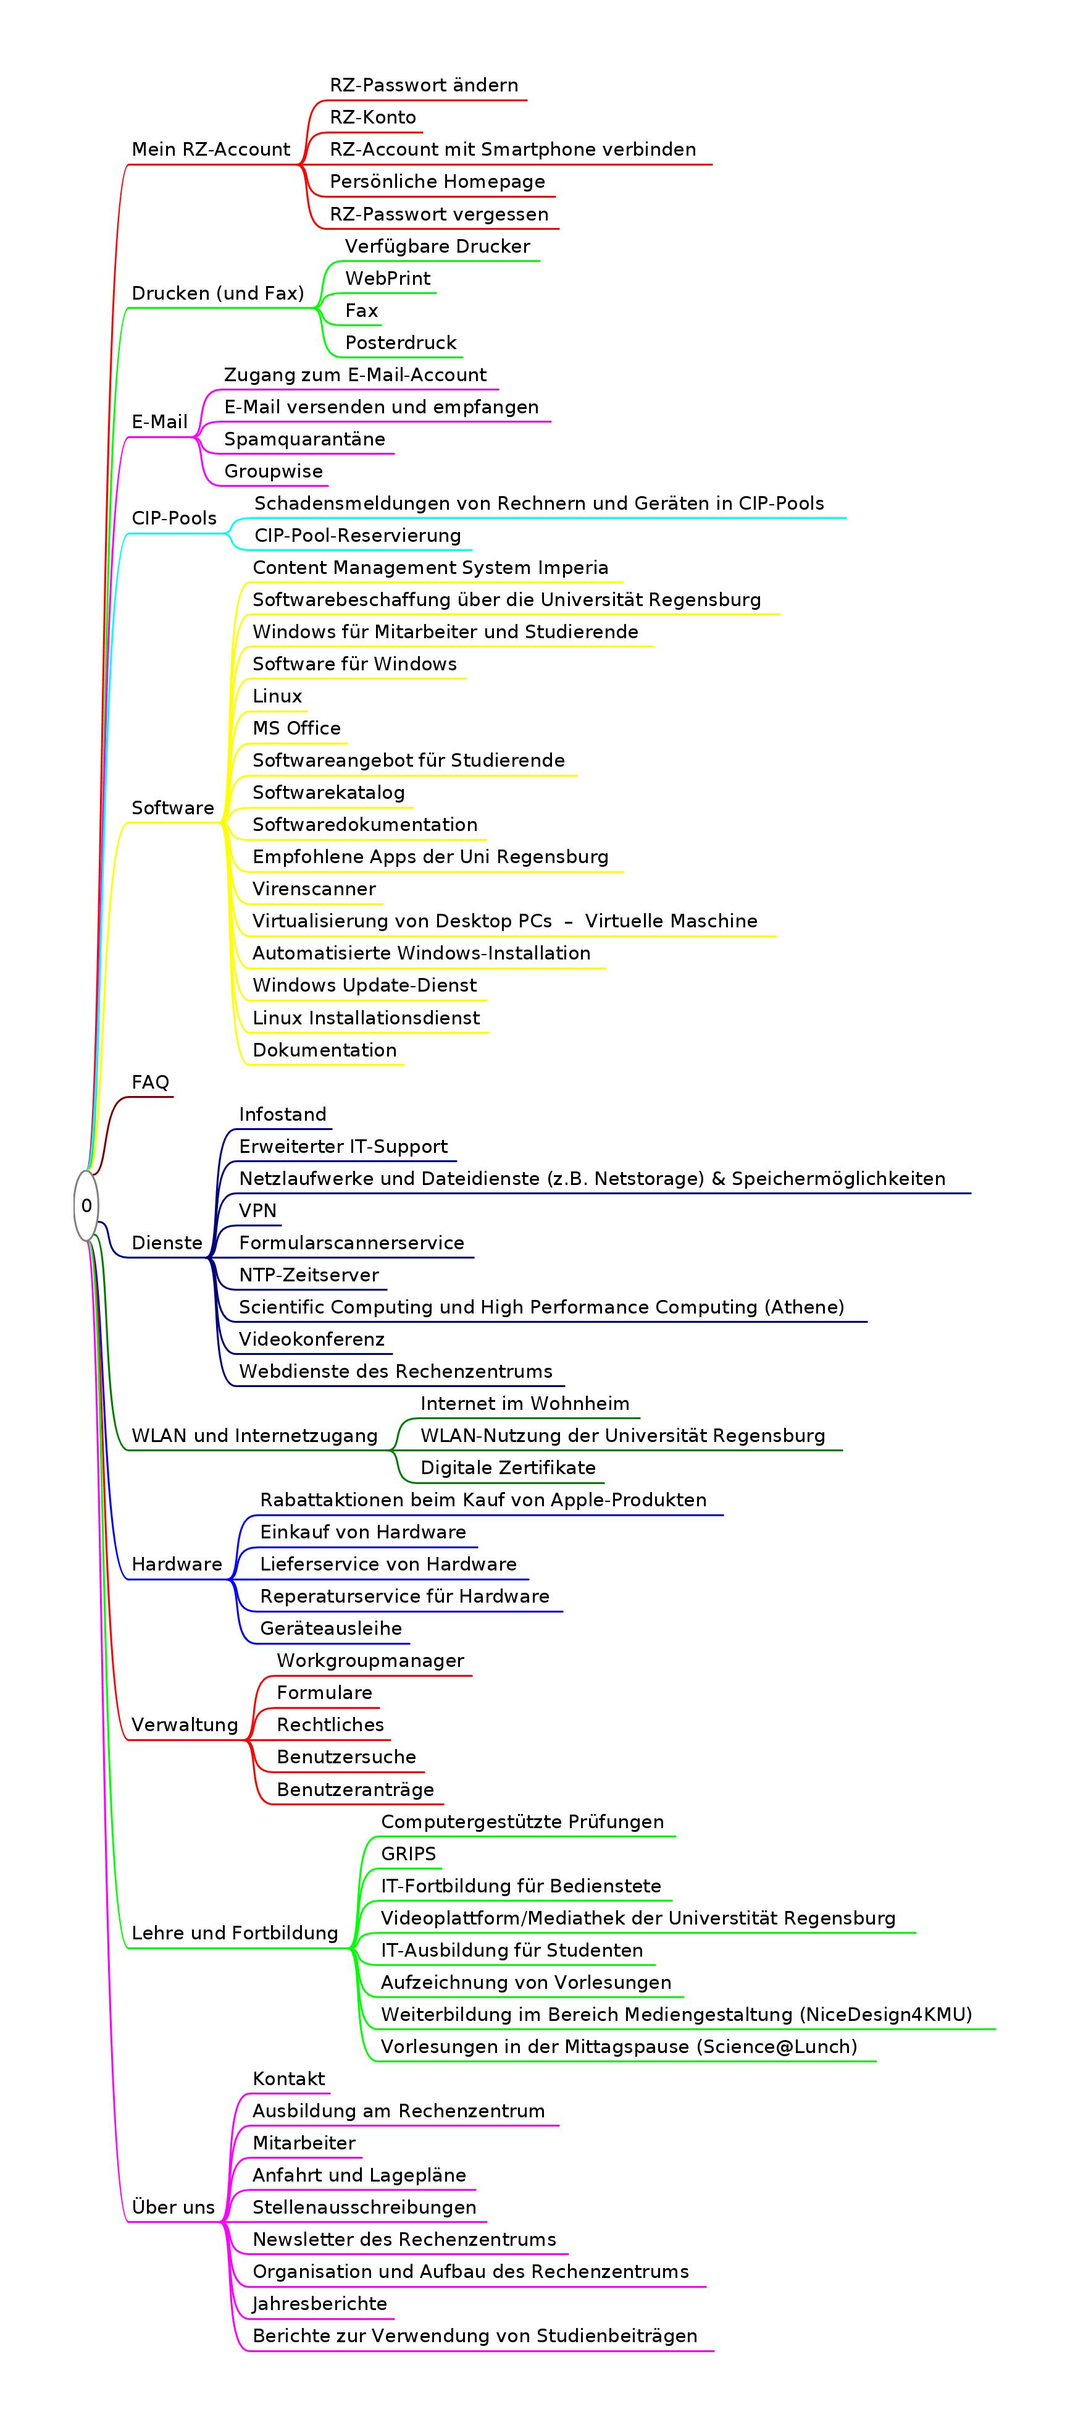
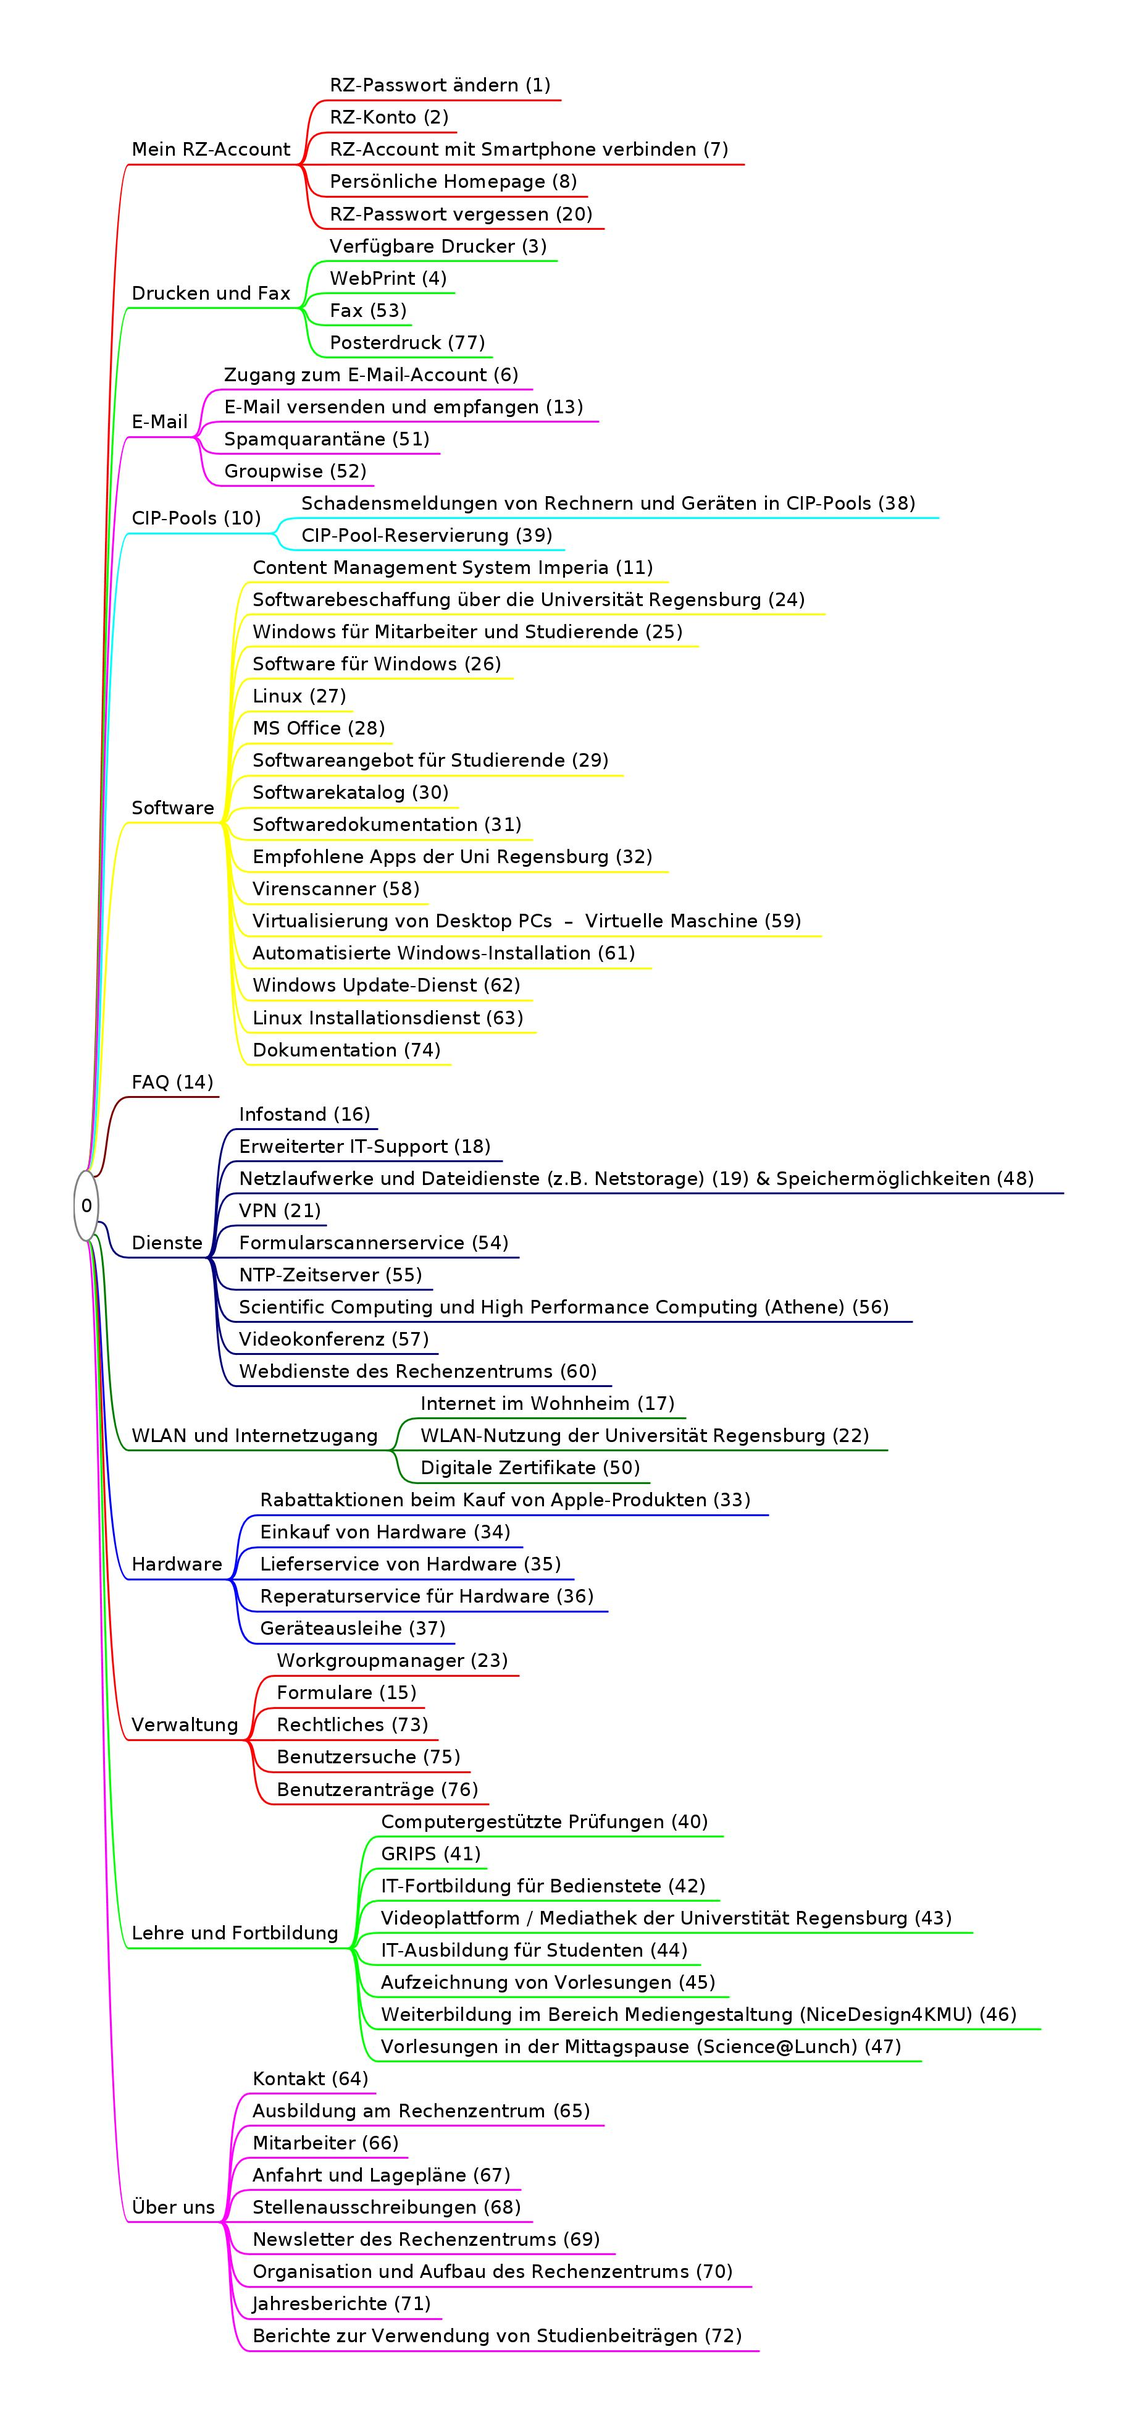
added ids to mind map

diff --git a/Card Sorting/Ergebnisse/neue struktur.mm b/Card Sorting/Ergebnisse/neue struktur.mm
@@ -53,109 +53,109 @@
 <hook NAME="AutomaticEdgeColor" COUNTER="4"/>
 <node TEXT="Mein RZ-Account" POSITION="right" ID="ID_669248540" CREATED="1441869848084" MODIFIED="1441869857971">
 <edge COLOR="#ff0000"/>
-<node TEXT="RZ-Passwort &#xe4;ndern" ID="ID_751792019" CREATED="1441869971630" MODIFIED="1441869979857"/>
-<node TEXT="RZ-Konto" ID="ID_1940107942" CREATED="1441869983337" MODIFIED="1441869985622"/>
-<node TEXT="RZ-Account mit Smartphone verbinden" ID="ID_1041095115" CREATED="1441869988999" MODIFIED="1441872777933"/>
-<node TEXT="Pers&#xf6;nliche Homepage" ID="ID_468570011" CREATED="1441870000966" MODIFIED="1441870004109"/>
-<node TEXT="RZ-Passwort vergessen" ID="ID_576465163" CREATED="1441870019242" MODIFIED="1441870031311"/>
+<node TEXT="RZ-Passwort &#xe4;ndern (1)" ID="ID_751792019" CREATED="1441869971630" MODIFIED="1441884568057"/>
+<node TEXT="RZ-Konto (2)" ID="ID_1940107942" CREATED="1441869983337" MODIFIED="1441884571773"/>
+<node TEXT="RZ-Account mit Smartphone verbinden (7)" ID="ID_1041095115" CREATED="1441869988999" MODIFIED="1441884578741"/>
+<node TEXT="Pers&#xf6;nliche Homepage (8)" ID="ID_468570011" CREATED="1441870000966" MODIFIED="1441884607649"/>
+<node TEXT="RZ-Passwort vergessen (20)" ID="ID_576465163" CREATED="1441870019242" MODIFIED="1441884602815"/>
 </node>
-<node TEXT="Drucken (und Fax)" POSITION="right" ID="ID_1629054648" CREATED="1441869921196" MODIFIED="1441875445023">
+<node TEXT="Drucken und Fax" POSITION="right" ID="ID_1629054648" CREATED="1441869921196" MODIFIED="1441883113396">
 <edge COLOR="#00ff00"/>
-<node TEXT="Verf&#xfc;gbare Drucker" ID="ID_1857720403" CREATED="1441870042651" MODIFIED="1441870047942"/>
-<node TEXT="WebPrint" ID="ID_1778042055" CREATED="1441870054716" MODIFIED="1441870058522"/>
-<node TEXT="Fax" ID="ID_394215921" CREATED="1441875434587" MODIFIED="1441875435395"/>
-<node TEXT="Posterdruck" ID="ID_1818670864" CREATED="1441878037201" MODIFIED="1441878039870"/>
+<node TEXT="Verf&#xfc;gbare Drucker (3)" ID="ID_1857720403" CREATED="1441870042651" MODIFIED="1441884619471"/>
+<node TEXT="WebPrint (4)" ID="ID_1778042055" CREATED="1441870054716" MODIFIED="1441884623407"/>
+<node TEXT="Fax (53)" ID="ID_394215921" CREATED="1441875434587" MODIFIED="1441884636228"/>
+<node TEXT="Posterdruck (77)" ID="ID_1818670864" CREATED="1441878037201" MODIFIED="1441884640684"/>
 </node>
 <node TEXT="E-Mail" POSITION="right" ID="ID_1765525429" CREATED="1441869925215" MODIFIED="1441869928027">
 <edge COLOR="#ff00ff"/>
-<node TEXT="Zugang zum E-Mail-Account" ID="ID_1262943197" CREATED="1441870096491" MODIFIED="1441870102907"/>
-<node TEXT="E-Mail versenden und empfangen" ID="ID_153571769" CREATED="1441870161782" MODIFIED="1441870166332"/>
-<node TEXT="Spamquarant&#xe4;ne" ID="ID_1440047222" CREATED="1441874898670" MODIFIED="1441874899856"/>
-<node TEXT="Groupwise" ID="ID_163120556" CREATED="1441874900557" MODIFIED="1441874904320"/>
+<node TEXT="Zugang zum E-Mail-Account (6)" ID="ID_1262943197" CREATED="1441870096491" MODIFIED="1441884650074"/>
+<node TEXT="E-Mail versenden und empfangen (13)" ID="ID_153571769" CREATED="1441870161782" MODIFIED="1441884661367"/>
+<node TEXT="Spamquarant&#xe4;ne (51)" ID="ID_1440047222" CREATED="1441874898670" MODIFIED="1441884673658"/>
+<node TEXT="Groupwise (52)" ID="ID_163120556" CREATED="1441874900557" MODIFIED="1441884678263"/>
 </node>
-<node TEXT="CIP-Pools" POSITION="right" ID="ID_1144884299" CREATED="1441869929468" MODIFIED="1441869931610">
+<node TEXT="CIP-Pools (10)" POSITION="right" ID="ID_1144884299" CREATED="1441869929468" MODIFIED="1441884695690">
 <edge COLOR="#00ffff"/>
-<node TEXT="Schadensmeldungen von Rechnern und Ger&#xe4;ten in CIP-Pools" ID="ID_1359084573" CREATED="1441872090408" MODIFIED="1441872091858"/>
-<node TEXT="CIP-Pool-Reservierung" ID="ID_1159743113" CREATED="1441872094739" MODIFIED="1441872101111"/>
+<node TEXT="Schadensmeldungen von Rechnern und Ger&#xe4;ten in CIP-Pools (38)" ID="ID_1359084573" CREATED="1441872090408" MODIFIED="1441884706009"/>
+<node TEXT="CIP-Pool-Reservierung (39)" ID="ID_1159743113" CREATED="1441872094739" MODIFIED="1441884711980"/>
 </node>
 <node TEXT="Software" POSITION="right" ID="ID_1890092100" CREATED="1441869931909" MODIFIED="1441869934117">
 <edge COLOR="#ffff00"/>
-<node TEXT="Content Management System Imperia" ID="ID_496886877" CREATED="1441870124410" MODIFIED="1441870131584"/>
-<node TEXT="Softwarebeschaffung &#xfc;ber die Universit&#xe4;t Regensburg" ID="ID_965152581" CREATED="1441870448315" MODIFIED="1441870450110"/>
-<node TEXT="Windows f&#xfc;r Mitarbeiter und Studierende" ID="ID_653088175" CREATED="1441871781432" MODIFIED="1441871793984"/>
-<node TEXT="Software f&#xfc;r Windows" ID="ID_1584644035" CREATED="1441871796445" MODIFIED="1441871799153"/>
-<node TEXT="Linux" ID="ID_62480224" CREATED="1441871800775" MODIFIED="1441871802542"/>
-<node TEXT="MS Office" ID="ID_1466416717" CREATED="1441871804236" MODIFIED="1441871807072"/>
-<node TEXT="Softwareangebot f&#xfc;r Studierende" ID="ID_1625603321" CREATED="1441871809371" MODIFIED="1441871827016"/>
-<node TEXT="Softwarekatalog" ID="ID_667733682" CREATED="1441871831716" MODIFIED="1441871834550"/>
-<node TEXT="Softwaredokumentation" ID="ID_1416097091" CREATED="1441871837441" MODIFIED="1441871840726"/>
-<node TEXT="Empfohlene Apps der Uni Regensburg" ID="ID_1154819793" CREATED="1441871842737" MODIFIED="1441871850575"/>
-<node TEXT="Virenscanner" ID="ID_1960281034" CREATED="1441875890330" MODIFIED="1441875892812"/>
-<node TEXT="Virtualisierung von Desktop PCs  &#x2013;  Virtuelle Maschine" ID="ID_879663304" CREATED="1441875971298" MODIFIED="1441875972103"/>
-<node TEXT="Automatisierte Windows-Installation" ID="ID_1049268960" CREATED="1441876116356" MODIFIED="1441876118023"/>
-<node TEXT="Windows Update-Dienst" ID="ID_1103414913" CREATED="1441876126864" MODIFIED="1441876127861"/>
-<node TEXT="Linux Installationsdienst" ID="ID_1861654135" CREATED="1441876132953" MODIFIED="1441876133779"/>
-<node TEXT="Dokumentation" ID="ID_22704451" CREATED="1441877790226" MODIFIED="1441877792460"/>
+<node TEXT="Content Management System Imperia (11)" ID="ID_496886877" CREATED="1441870124410" MODIFIED="1441884780839"/>
+<node TEXT="Softwarebeschaffung &#xfc;ber die Universit&#xe4;t Regensburg (24)" ID="ID_965152581" CREATED="1441870448315" MODIFIED="1441884742247"/>
+<node TEXT="Windows f&#xfc;r Mitarbeiter und Studierende (25)" ID="ID_653088175" CREATED="1441871781432" MODIFIED="1441884750910"/>
+<node TEXT="Software f&#xfc;r Windows (26)" ID="ID_1584644035" CREATED="1441871796445" MODIFIED="1441884754946"/>
+<node TEXT="Linux (27)" ID="ID_62480224" CREATED="1441871800775" MODIFIED="1441884758902"/>
+<node TEXT="MS Office (28)" ID="ID_1466416717" CREATED="1441871804236" MODIFIED="1441884761992"/>
+<node TEXT="Softwareangebot f&#xfc;r Studierende (29)" ID="ID_1625603321" CREATED="1441871809371" MODIFIED="1441884765983"/>
+<node TEXT="Softwarekatalog (30)" ID="ID_667733682" CREATED="1441871831716" MODIFIED="1441884772416"/>
+<node TEXT="Softwaredokumentation (31)" ID="ID_1416097091" CREATED="1441871837441" MODIFIED="1441884789969"/>
+<node TEXT="Empfohlene Apps der Uni Regensburg (32)" ID="ID_1154819793" CREATED="1441871842737" MODIFIED="1441884793801"/>
+<node TEXT="Virenscanner (58)" ID="ID_1960281034" CREATED="1441875890330" MODIFIED="1441884822074"/>
+<node TEXT="Virtualisierung von Desktop PCs  &#x2013;  Virtuelle Maschine (59)" ID="ID_879663304" CREATED="1441875971298" MODIFIED="1441884828287"/>
+<node TEXT="Automatisierte Windows-Installation (61)" ID="ID_1049268960" CREATED="1441876116356" MODIFIED="1441884834843"/>
+<node TEXT="Windows Update-Dienst (62)" ID="ID_1103414913" CREATED="1441876126864" MODIFIED="1441884840526"/>
+<node TEXT="Linux Installationsdienst (63)" ID="ID_1861654135" CREATED="1441876132953" MODIFIED="1441884847399"/>
+<node TEXT="Dokumentation (74)" ID="ID_22704451" CREATED="1441877790226" MODIFIED="1441884858092"/>
 </node>
-<node TEXT="FAQ" POSITION="right" ID="ID_703933153" CREATED="1441869934333" MODIFIED="1441869935660">
+<node TEXT="FAQ (14)" POSITION="right" ID="ID_703933153" CREATED="1441869934333" MODIFIED="1441884870157">
 <edge COLOR="#7c0000"/>
 </node>
 <node TEXT="Dienste" POSITION="right" ID="ID_72266525" CREATED="1441869938096" MODIFIED="1441869939341">
 <edge COLOR="#00007c"/>
-<node TEXT="Infostand" ID="ID_1779496599" CREATED="1441870175017" MODIFIED="1441870177550"/>
-<node TEXT="Erweiterter IT-Support" ID="ID_916056347" CREATED="1441870205073" MODIFIED="1441870209872"/>
-<node TEXT="Netzlaufwerke und Dateidienste (z.B. Netstorage) &amp; Speicherm&#xf6;glichkeiten" ID="ID_474802615" CREATED="1441870219416" MODIFIED="1441874392039"/>
-<node TEXT="VPN" ID="ID_943488088" CREATED="1441870234732" MODIFIED="1441870236545"/>
-<node TEXT="Formularscannerservice" ID="ID_1272693274" CREATED="1441875420042" MODIFIED="1441875427727"/>
-<node TEXT="NTP-Zeitserver" ID="ID_1943471488" CREATED="1441875644041" MODIFIED="1441875647533"/>
-<node TEXT="Scientific Computing und High Performance Computing (Athene)" ID="ID_1866334653" CREATED="1441875830194" MODIFIED="1441875831600"/>
-<node TEXT="Videokonferenz" ID="ID_590203619" CREATED="1441875864118" MODIFIED="1441875866715"/>
-<node TEXT="Webdienste des Rechenzentrums" ID="ID_1806943678" CREATED="1441876079081" MODIFIED="1441876093299"/>
+<node TEXT="Infostand (16)" ID="ID_1779496599" CREATED="1441870175017" MODIFIED="1441884876458"/>
+<node TEXT="Erweiterter IT-Support (18)" ID="ID_916056347" CREATED="1441870205073" MODIFIED="1441884881137"/>
+<node TEXT="Netzlaufwerke und Dateidienste (z.B. Netstorage) (19) &amp; Speicherm&#xf6;glichkeiten (48)" ID="ID_474802615" CREATED="1441870219416" MODIFIED="1441884906497"/>
+<node TEXT="VPN (21)" ID="ID_943488088" CREATED="1441870234732" MODIFIED="1441884912826"/>
+<node TEXT="Formularscannerservice (54)" ID="ID_1272693274" CREATED="1441875420042" MODIFIED="1441884924340"/>
+<node TEXT="NTP-Zeitserver (55)" ID="ID_1943471488" CREATED="1441875644041" MODIFIED="1441884929630"/>
+<node TEXT="Scientific Computing und High Performance Computing (Athene) (56)" ID="ID_1866334653" CREATED="1441875830194" MODIFIED="1441884933916"/>
+<node TEXT="Videokonferenz (57)" ID="ID_590203619" CREATED="1441875864118" MODIFIED="1441884939140"/>
+<node TEXT="Webdienste des Rechenzentrums (60)" ID="ID_1806943678" CREATED="1441876079081" MODIFIED="1441884944455"/>
 </node>
 <node TEXT="WLAN und Internetzugang" POSITION="right" ID="ID_770433897" CREATED="1441869940664" MODIFIED="1441869946521">
 <edge COLOR="#007c00"/>
-<node TEXT="Internet im Wohnheim" ID="ID_1379046742" CREATED="1441870192615" MODIFIED="1441870198395"/>
-<node TEXT="WLAN-Nutzung der Universit&#xe4;t Regensburg" ID="ID_1245377829" CREATED="1441870260757" MODIFIED="1441870262109"/>
-<node TEXT="Digitale Zertifikate" ID="ID_1288853056" CREATED="1441874816992" MODIFIED="1441874821106"/>
+<node TEXT="Internet im Wohnheim (17)" ID="ID_1379046742" CREATED="1441870192615" MODIFIED="1441884968013"/>
+<node TEXT="WLAN-Nutzung der Universit&#xe4;t Regensburg (22)" ID="ID_1245377829" CREATED="1441870260757" MODIFIED="1441884973221"/>
+<node TEXT="Digitale Zertifikate (50)" ID="ID_1288853056" CREATED="1441874816992" MODIFIED="1441884994689"/>
 </node>
 <node TEXT="Hardware" POSITION="right" ID="ID_189916393" CREATED="1441871853709" MODIFIED="1441871859718">
 <edge COLOR="#0000ff"/>
-<node TEXT="Rabattaktionen beim Kauf von Apple-Produkten" ID="ID_1914333919" CREATED="1441871982940" MODIFIED="1441872036333"/>
-<node TEXT="Einkauf von Hardware" ID="ID_1460123355" CREATED="1441872042741" MODIFIED="1441872045571"/>
-<node TEXT="Lieferservice von Hardware" ID="ID_409237758" CREATED="1441872049124" MODIFIED="1441872056104"/>
-<node TEXT="Reperaturservice f&#xfc;r Hardware" ID="ID_940397624" CREATED="1441872059130" MODIFIED="1441872071491"/>
-<node TEXT="Ger&#xe4;teausleihe" ID="ID_308391072" CREATED="1441872077121" MODIFIED="1441872080312"/>
+<node TEXT="Rabattaktionen beim Kauf von Apple-Produkten (33)" ID="ID_1914333919" CREATED="1441871982940" MODIFIED="1441885010068"/>
+<node TEXT="Einkauf von Hardware (34)" ID="ID_1460123355" CREATED="1441872042741" MODIFIED="1441885013448"/>
+<node TEXT="Lieferservice von Hardware (35)" ID="ID_409237758" CREATED="1441872049124" MODIFIED="1441885017381"/>
+<node TEXT="Reperaturservice f&#xfc;r Hardware (36)" ID="ID_940397624" CREATED="1441872059130" MODIFIED="1441885022851"/>
+<node TEXT="Ger&#xe4;teausleihe (37)" ID="ID_308391072" CREATED="1441872077121" MODIFIED="1441885027421"/>
 </node>
 <node TEXT="Verwaltung" POSITION="right" ID="ID_542155170" CREATED="1441870395125" MODIFIED="1441877221942">
 <edge COLOR="#ff0000"/>
-<node TEXT="Workgroupmanager" ID="ID_1250960717" CREATED="1441870403295" MODIFIED="1441870406940"/>
-<node TEXT="Formulare" ID="ID_1038458082" CREATED="1441869953276" MODIFIED="1441872299650"/>
-<node TEXT="Rechtliches" ID="ID_259511889" CREATED="1441877177137" MODIFIED="1441877179122"/>
-<node TEXT="Benutzersuche" ID="ID_789233478" CREATED="1441878015738" MODIFIED="1441878018126"/>
-<node TEXT="Benutzerantr&#xe4;ge" ID="ID_267688333" CREATED="1441878018865" MODIFIED="1441878023028"/>
+<node TEXT="Workgroupmanager (23)" ID="ID_1250960717" CREATED="1441870403295" MODIFIED="1441885033339"/>
+<node TEXT="Formulare (15)" ID="ID_1038458082" CREATED="1441869953276" MODIFIED="1441885054325"/>
+<node TEXT="Rechtliches (73)" ID="ID_259511889" CREATED="1441877177137" MODIFIED="1441885061058"/>
+<node TEXT="Benutzersuche (75)" ID="ID_789233478" CREATED="1441878015738" MODIFIED="1441885068029"/>
+<node TEXT="Benutzerantr&#xe4;ge (76)" ID="ID_267688333" CREATED="1441878018865" MODIFIED="1441885071673"/>
 </node>
 <node TEXT="Lehre und Fortbildung" POSITION="right" ID="ID_1085113772" CREATED="1441872426119" MODIFIED="1441873601411">
 <edge COLOR="#00ff00"/>
-<node TEXT="Computergest&#xfc;tzte Pr&#xfc;fungen" ID="ID_1694458829" CREATED="1441872432662" MODIFIED="1441872441069"/>
-<node TEXT="GRIPS" ID="ID_1590563630" CREATED="1441872443409" MODIFIED="1441872444784"/>
-<node TEXT="IT-Fortbildung f&#xfc;r Bedienstete" ID="ID_165407253" CREATED="1441873778590" MODIFIED="1441873787539"/>
-<node TEXT="Videoplattform/Mediathek der Universtit&#xe4;t Regensburg" ID="ID_1888791027" CREATED="1441873972219" MODIFIED="1441873973310"/>
-<node TEXT="IT-Ausbildung f&#xfc;r Studenten" ID="ID_1285757763" CREATED="1441874046473" MODIFIED="1441874055924"/>
-<node TEXT="Aufzeichnung von Vorlesungen" ID="ID_902096288" CREATED="1441874063843" MODIFIED="1441874076895"/>
-<node TEXT="Weiterbildung im Bereich Mediengestaltung (NiceDesign4KMU)" ID="ID_1067593615" CREATED="1441874081277" MODIFIED="1441874082099"/>
-<node TEXT="Vorlesungen in der Mittagspause (Science@Lunch)" ID="ID_741542397" CREATED="1441874086508" MODIFIED="1441874088040"/>
+<node TEXT="Computergest&#xfc;tzte Pr&#xfc;fungen (40)" ID="ID_1694458829" CREATED="1441872432662" MODIFIED="1441885084830"/>
+<node TEXT="GRIPS (41)" ID="ID_1590563630" CREATED="1441872443409" MODIFIED="1441885095893"/>
+<node TEXT="IT-Fortbildung f&#xfc;r Bedienstete (42)" ID="ID_165407253" CREATED="1441873778590" MODIFIED="1441885101802"/>
+<node TEXT="Videoplattform / Mediathek der Universtit&#xe4;t Regensburg (43)" ID="ID_1888791027" CREATED="1441873972219" MODIFIED="1441885112439"/>
+<node TEXT="IT-Ausbildung f&#xfc;r Studenten (44)" ID="ID_1285757763" CREATED="1441874046473" MODIFIED="1441885123208"/>
+<node TEXT="Aufzeichnung von Vorlesungen (45)" ID="ID_902096288" CREATED="1441874063843" MODIFIED="1441885132671"/>
+<node TEXT="Weiterbildung im Bereich Mediengestaltung (NiceDesign4KMU) (46)" ID="ID_1067593615" CREATED="1441874081277" MODIFIED="1441885139959"/>
+<node TEXT="Vorlesungen in der Mittagspause (Science@Lunch) (47)" ID="ID_741542397" CREATED="1441874086508" MODIFIED="1441885151006"/>
 </node>
 <node TEXT="&#xdc;ber uns" POSITION="right" ID="ID_798299294" CREATED="1441876838588" MODIFIED="1441876840961">
 <edge COLOR="#ff00ff"/>
-<node TEXT="Kontakt" ID="ID_1809245446" CREATED="1441876842786" MODIFIED="1441876847204"/>
-<node TEXT="Ausbildung am Rechenzentrum" ID="ID_1168850955" CREATED="1441876880743" MODIFIED="1441876885584"/>
-<node TEXT="Mitarbeiter" ID="ID_1198750952" CREATED="1441876892893" MODIFIED="1441876906502"/>
-<node TEXT="Anfahrt und Lagepl&#xe4;ne" ID="ID_220303747" CREATED="1441876912085" MODIFIED="1441877052676"/>
-<node TEXT="Stellenausschreibungen" ID="ID_852268081" CREATED="1441877054692" MODIFIED="1441877057635"/>
-<node TEXT="Newsletter des Rechenzentrums" ID="ID_1197745464" CREATED="1441877059224" MODIFIED="1441877065218"/>
-<node TEXT="Organisation und Aufbau des Rechenzentrums" ID="ID_298571698" CREATED="1441877071399" MODIFIED="1441877078226"/>
-<node TEXT="Jahresberichte" ID="ID_663718639" CREATED="1441877118363" MODIFIED="1441877120570"/>
-<node TEXT="Berichte zur Verwendung von Studienbeitr&#xe4;gen" ID="ID_14775159" CREATED="1441877124304" MODIFIED="1441877124782"/>
+<node TEXT="Kontakt (64)" ID="ID_1809245446" CREATED="1441876842786" MODIFIED="1441885158158"/>
+<node TEXT="Ausbildung am Rechenzentrum (65)" ID="ID_1168850955" CREATED="1441876880743" MODIFIED="1441885168549"/>
+<node TEXT="Mitarbeiter (66)" ID="ID_1198750952" CREATED="1441876892893" MODIFIED="1441885172360"/>
+<node TEXT="Anfahrt und Lagepl&#xe4;ne (67)" ID="ID_220303747" CREATED="1441876912085" MODIFIED="1441885177903"/>
+<node TEXT="Stellenausschreibungen (68)" ID="ID_852268081" CREATED="1441877054692" MODIFIED="1441885183485"/>
+<node TEXT="Newsletter des Rechenzentrums (69)" ID="ID_1197745464" CREATED="1441877059224" MODIFIED="1441885189004"/>
+<node TEXT="Organisation und Aufbau des Rechenzentrums (70)" ID="ID_298571698" CREATED="1441877071399" MODIFIED="1441885195192"/>
+<node TEXT="Jahresberichte (71)" ID="ID_663718639" CREATED="1441877118363" MODIFIED="1441885207798"/>
+<node TEXT="Berichte zur Verwendung von Studienbeitr&#xe4;gen (72)" ID="ID_14775159" CREATED="1441877124304" MODIFIED="1441885212878"/>
 </node>
 </node>
 </map>
